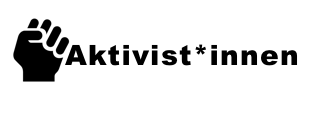
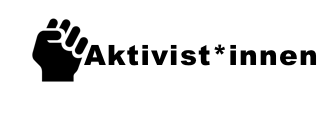
Nav element

Changed region(s): [[0.0303, 0.1565, 0.9697, 0.7304]]

diff --git a/nav-element.html b/nav-element.html
@@ -79,7 +79,7 @@
         rotation="0 10 0"
         scale="1.6 0.5 0.1"
         geometry="primitive:box"
-        material="src:images/schild1.png;">
+        material="src:images/schild2.png;">
       </a-entity>
 
 
